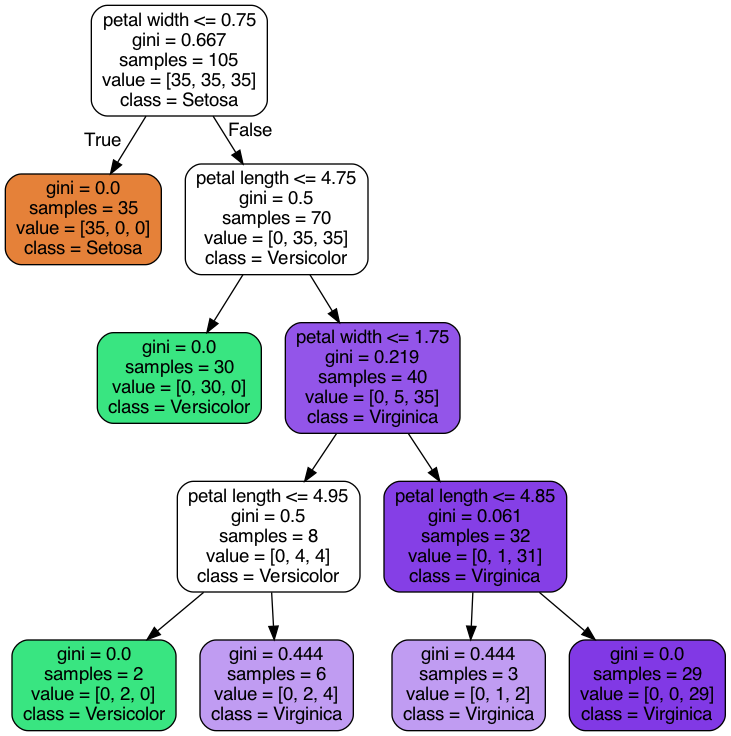
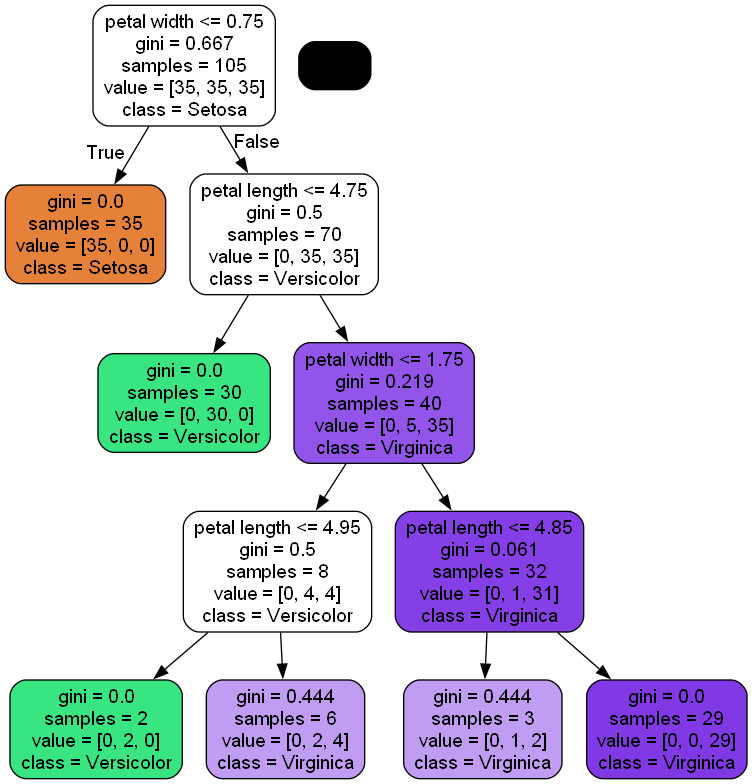
Add files via upload

diff --git a/chapter_3/ch_03.py b/chapter_3/ch_03.py
@@ -499,6 +499,22 @@ plt.show()
 
 
 tree.plot_tree(tree_model)
-plt.savefig('03_21_1.pdf')
+# plt.savefig('03_21_1.pdf')
 plt.show()
+
+
+
+# after installing graphviz, pydotplus (already installed)
+
+dot_data = export_graphviz(tree_model,
+                           filled=True,
+                           rounded=True,
+                           class_names=['Setosa',
+                                        'Versicolor',
+                                        'Virginica'],
+                           feature_names=['petal length',
+                                          'petal width'],
+                           out_file=None)
+graph = graph_from_dot_data(dot_data)
+graph.write_png('tree.png')
 
